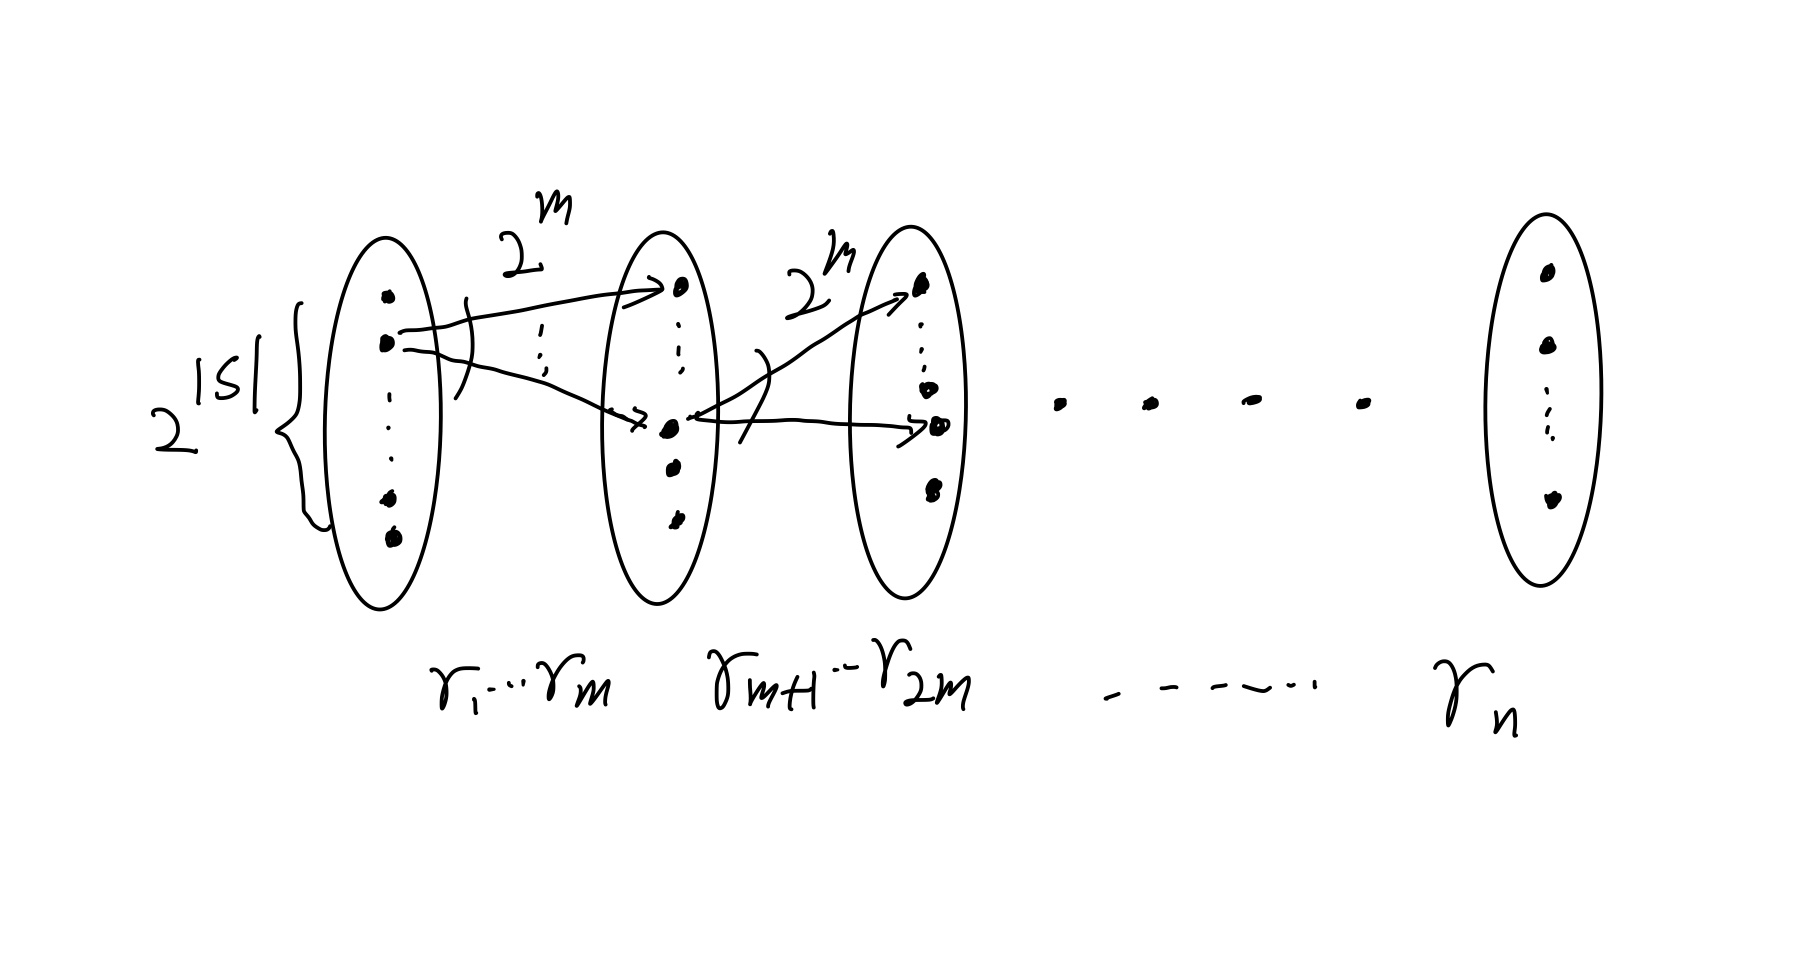
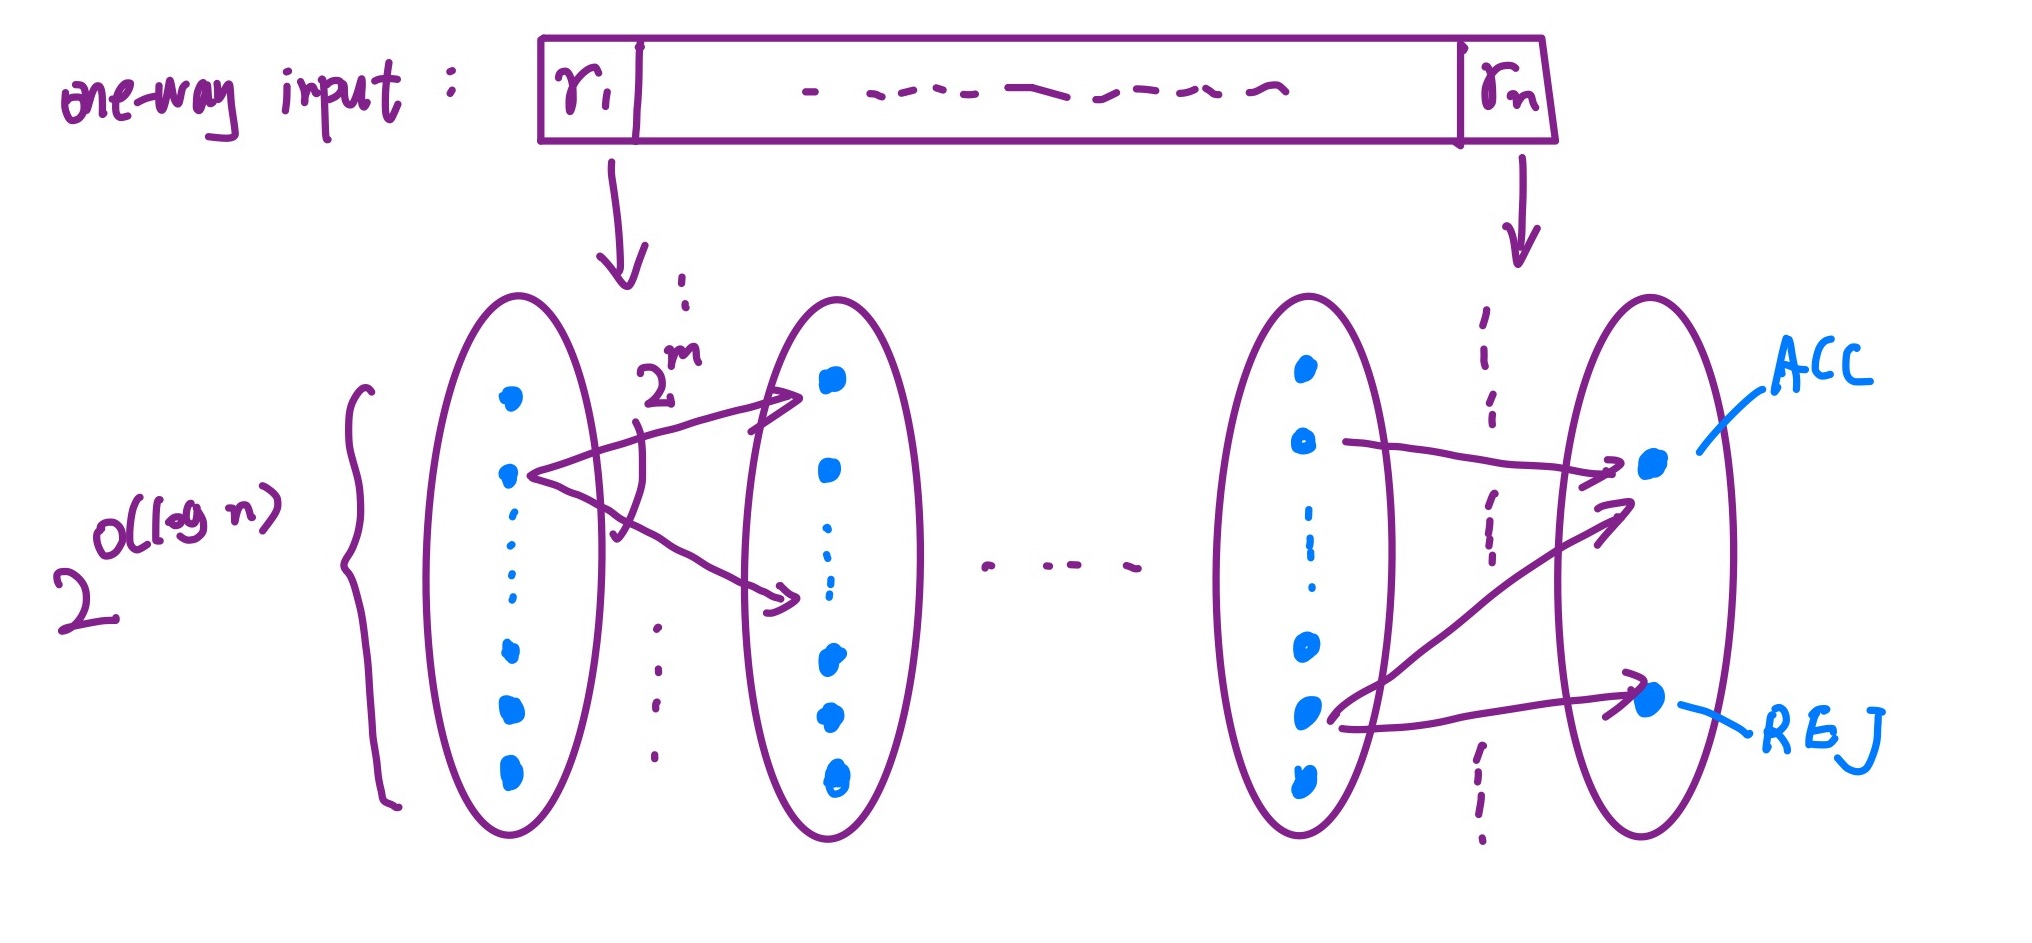
ROBP

diff --git a/_site/blog/index.html b/_site/blog/index.html
@@ -72,30 +72,82 @@
   <div class="post">
     <h1 class="post-title">
       <a href="/derandbpl/">
-        BPL, Derandomize BPL
+        BPL and Fooling BPL
       </a>
     </h1>
 
     <span class="post-date">03 Nov 2019</span>
     
-      <p>Starting from this post I will discuss about the $BPL\ vs.\ L$ problem and write notes about some known, important result.</p>
+      <p>Starting from this post I will discuss about the $BPL\ vs.\ L$ problem and write notes about some known, important result. This post is an introduction to this problem.</p>
 
 <ul>
-  <li><a href="#bpl">BPL</a></li>
+  <li><a href="#bpl">Log-space computation and BPL</a></li>
+  <li><a href="#robp">ROBP</a></li>
+  <li><a href="#fool">Fooling BPL</a></li>
 </ul>
 
 <h2 id="-1-log-space-computation-and-the-class-bpl"><a name="bpl"></a> 1. Log-space Computation and the class BPL</h2>
 
-<p>We will be interested in space-bounded probabilistic computation and specifically, on Turing machines that have logarithmic working space. We start by describing such machines.</p>
+<p>We are interested in space-bounded probabilistic computation, specifically, on Turing machines that have logarithmic working space. We start by describing such machines.</p>
 <h3 id="log-space-probabilistic-turing-machine">Log-space Probabilistic Turing Machine</h3>
 
-<p>A log-space probabilistic turing machine consists of the following part:  a two-way read-only input tape, assuming that the input is of size $n$; a normal read-write working tape of size $O(\log n)$, a finite state control that has a finite number of states, a output tape that is write-only. In addition, we need to model the condition that the machine has access to infinite randomness. That is, every time the machine doesn’t know what to do, it flips a coin and decides its next step. We model this by giving it access to a infinite one-way random tape, it reads the next random bit when it is needed. It must write the random bit down (in the work tape) if it wants to retrieve it later.</p>
+<p>A log-space probabilistic turing machine(PTM) consists of the following parts:  a two-way read-only input tape, assuming that the input is of size $n$; a normal read-write working tape of size $O(\log n)$, a finite state control that has a finite number of states, a output tape that is write-only. In addition, we need to model the condition that the machine has access to infinite randomness. That is, every time the machine doesn’t know what to do, it flips a coin and decides its next step. We model this by giving it access to an infinite one-way random tape, it reads the next random bit when it is needed. It must write the random bit down (in the work tape) if it wants to retrieve it later.</p>
 
 <p><img src="/assets/L-PTM.jpg" alt="log-space PTM" /></p>
 
-<p>In the execution of this TM, a <em>configuration</em> consists of the position of read head on the input tape plus the contents on it, the position of read-write head on the working tape plus the contents, the specific state on the finite state control. We should see that the total number of configurations is $\log n \cdot 2^{O(\log n)}$(# of possible work tape configuration) $\cdot \lvert \Delta \rvert$(# of states which is finite) $\cdot n$ (# of possible input tape configuration) $=2^{O(\log n)}$.</p>
+<p>In the execution of this TM, a <em>configuration</em> consists of the position of read head on the input tape plus the contents on it, the position of read-write head on the working tape plus the contents, the specific state on the finite state control. We should see that the total number of configurations is $O(\log n) \cdot 2^{O(\log n)}$(# of possible work tape configuration) $\cdot \lvert \Delta \rvert$(# of states which is finite) $\cdot n$ (# of possible input tape configuration) $=2^{O(\log n)}$.</p>
+
+<h3 id="bpl">BPL</h3>
+
+<p>$BPL$ can be written as $BP_HL$ or $BP_HSPACE(\log n)$. It refers to <em>Bounded-error Probabilistic Log-space</em> that halts absolutely (hence the sub “H”). Formally, we say a language $L$ is in $BPL$ if there is a log-space PTM recognizes it and satisfies the following:</p>
+
+<ul>
+  <li>it always halts.</li>
+  <li>if $x\in L$, it accepts with probability at least 2/3.</li>
+  <li>if $x\not\in L$, it rejects with probability at least 2/3.</li>
+  <li>the probability is taken over the coin flips of the TM.</li>
+</ul>
+
+<p>We emphasize that in the definition of $BPL$ the PTM halts absolutely, which is the case we’re interested in. For discussion on other PTMs(e.g. PTM that halts almost surely) , readers should refer to the survey [1]. We now state some observations:</p>
+
+<ul>
+  <li>The PTM runs in time at most $2^{O(\log n)}$, otherwise the PTM falls in loop and never halts.</li>
+  <li>Since it runs in time at most $2^{O(\log n)}$, it uses at most $2^{O(\log n)}$ random bits.</li>
+</ul>
+
+<p>In fact, restricting a PTM to use at most $2^{O(\log n)}$ randomness is equivalent to say it halts absolutely. Consider the following: the PTM uses space $O(\log n)$ to maintain a counter, every time the PTM flips a coin, the counter is reset to 0, if the counter reaches $2^{O(\log n)}$, then it halts and reject. It can be seen that this halting PTM recognizes the same language.</p>
+
+<h2 id="-2-read-once-branching-program"><a name="robp"></a> 2. Read-once Branching Program</h2>
+
+<p>In this section we introduce a (non-uniform) computational model that simulates space-bounded computation. A branching program (in our interest) is a layed acyclic graph, each layer has a total number of $2^{O(\log n)}$ nodes. You can think of each of these nodes as a configuration in the execution of the above BPL machine on a given input, so each layer has the same nodes and, since it’s halting, the same node isn’t entered twice. For each input, there is a starting node in the first layer that represents the starting configuration. In the last layer there are only 2 nodes, one represents the “accept” state and the other represents the “reject” state. Between the $i$th and $i+1$th layer there are transition edges mapping from nodes in the $i$th layer to the nodes in the $i+1$th layer. Each of these edges is labeled a string <script type="math/tex">r_i \in\{0,1\}^m</script>. You should think of this string as the $m$ coin flips tossed by the machine to decide which configuration to enter in the next step (tossing $m$ coins just generalizes the case of tossing one coin). A computation on a branching program with input $r_n$ is just a path from a node in the first layer to the Accepting/Rejecting node in the last layer, between it reads $r_i$ and chooses the edge accordingly. We say a branching program is ROBP (Read Once Branching Program) if it reads its input in a one-way fashion.</p>
+
+<p>For a computation on the BPL machine with input $x$, you can think of a ROBP simulates the computation by:</p>
+
+<ol>
+  <li>picking a node in the first layer as starting node according to the input $x$;</li>
+  <li>read the sequence of random bits on the original random tape as input and execute accordingly.</li>
+  <li>note that it reads the input in a streaming (one-way) fashion.</li>
+</ol>
+
+<p>The picture below represents a branching program using $r_n$ randomness and has $2^{O(\log n)}$ nodes in each layer.</p>
+
+<p>For convenience, we denote that maximum number in a layer of the (RO)BP the <em>width</em> of it. We denote the length of the (RO)BP as the number of layers in it.</p>
 
 <p><img src="/assets/ROBP.jpg" alt="ROBP" /></p>
+
+<h2 id="-3-fooling-bpl"><a name="fool"></a> 3. Fooling BPL</h2>
+
+<p>From the previous sections, we can see that to fool every language in BPL, it suffices to fool all ROBPs that have width at most $2^{O(\log n)}$. We formally define what we mean by fooling a ROBP.</p>
+
+<p><strong>Definition 3.1</strong> For a ROBP $B: {0,1}^{n} \rightarrow {0,1}$, we say a pseudorandom generator <script type="math/tex">G: \{0,1\}^{r} \rightarrow \{0,1\}^{n}</script>  where $r&lt;n = 2^{O(\log n)}$ $\epsilon$-fools $B$ if</p>
+
+<script type="math/tex; mode=display">% <![CDATA[
+\lvert \Pr \left[ B(G(U_{r}))\right] - \Pr\left[B(U_n) \right]\rvert < \epsilon %]]></script>
+
+<p><strong>References</strong></p>
+
+<p>[1] Michael Saks, “Randomization and Derandomization in Space-Bounded
+Computation” http://citeseerx.ist.psu.edu/viewdoc/download?doi=10.1.1.17.1185&amp;rep=rep1&amp;type=pdf</p>
 
 
     

diff --git a/_posts/2019-11-03-derandlogspace.md b/_posts/2019-11-03-derandlogspace.md
@@ -1,7 +1,7 @@
 ---
 layout: default
 permalink: /derandbpl/
-title: BPL, Derandomize BPL
+title: BPL and Fooling BPL
 tags: Study
 ---
 
@@ -9,6 +9,7 @@ Starting from this post I will discuss about the $BPL\ vs.\ L$ problem and write
 
 * [Log-space computation and BPL](#bpl)
 * [ROBP](#robp)
+* [Fooling BPL](#fool)
   
 
 ## <a name="bpl"></a> 1. Log-space Computation and the class BPL  
@@ -38,13 +39,29 @@ We emphasize that in the definition of $BPL$ the PTM halts absolutely, which is 
 
 In fact, restricting a PTM to use at most $2^{O(\log n)}$ randomness is equivalent to say it halts absolutely. Consider the following: the PTM uses space $O(\log n)$ to maintain a counter, every time the PTM flips a coin, the counter is reset to 0, if the counter reaches $2^{O(\log n)}$, then it halts and reject. It can be seen that this halting PTM recognizes the same language.  
 
-## <a name="robp"></a>2. Read-once Branching Program
+## <a name="robp"></a> 2. Read-once Branching Program
 
-In this section we introduce a (non-uniform) computational model that simulates space-bounded computation. A branching program (in our interest) is a layed acyclic graph, each layer has a total number of $2^{O(\log n)}$ nodes. You can think of each of these nodes as a configuration in the execution of the above BPL machine on a given input, so each layer has the same nodes and, since it's halting, the same node isn't entered twice. For each input, there is a starting node in the first layer that represents the starting configuration. In the last layer there are only 2 nodes, one represents the "accept" state and the other represents the "reject" state. Between the $i$th and $i+1$th layer there are transition edges mapping from nodes in the $i$th layer to the nodes in the $i+1$th layer. Each of these edges is labeled a string $$r_i \in\{0,1\}^m$$. You should think of this string as the $m$ coin flips tossed by the machine to decide which configuration to enter in the next step (tossing $m$ coins just generalized the case of tossing one coin). A computation on a branching program is just a path from a node in the first layer to the ACC/REJ in the last layer.
+In this section we introduce a (non-uniform) computational model that simulates space-bounded computation. A branching program (in our interest) is a layed acyclic graph, each layer has a total number of $2^{O(\log n)}$ nodes. You can think of each of these nodes as a configuration in the execution of the above BPL machine on a given input, so each layer has the same nodes and, since it's halting, the same node isn't entered twice. For each input, there is a starting node in the first layer that represents the starting configuration. In the last layer there are only 2 nodes, one represents the "accept" state and the other represents the "reject" state. Between the $i$th and $i+1$th layer there are transition edges mapping from nodes in the $i$th layer to the nodes in the $i+1$th layer. Each of these edges is labeled a string $$r_i \in\{0,1\}^m$$. You should think of this string as the $m$ coin flips tossed by the machine to decide which configuration to enter in the next step (tossing $m$ coins just generalizes the case of tossing one coin). A computation on a branching program with input $r_n$ is just a path from a node in the first layer to the Accepting/Rejecting node in the last layer, between it reads $r_i$ and chooses the edge accordingly. We say a branching program is ROBP (Read Once Branching Program) if it reads its input in a one-way fashion.
+
+For a computation on the BPL machine with input $x$, you can think of a ROBP simulates the computation by:  
+
+1. picking a node in the first layer as starting node according to the input $x$; 
+2. read the sequence of random bits on the original random tape as input and execute accordingly.  
+3. note that it reads the input in a streaming (one-way) fashion.
+
+The picture below represents a branching program using $r_n$ randomness and has $2^{O(\log n)}$ nodes in each layer.  
+
+For convenience, we denote that maximum number in a layer of the (RO)BP the *width* of it. We denote the length of the (RO)BP as the number of layers in it.
 
 ![ROBP](/assets/ROBP.jpg)
 
+## <a name="fool"></a> 3. Fooling BPL  
 
+From the previous sections, we can see that to fool every language in BPL, it suffices to fool all ROBPs that have width at most $2^{O(\log n)}$. We formally define what we mean by fooling a ROBP.    
+
+**Definition 3.1** For a ROBP $B: \{0,1\}^{n} \rightarrow \{0,1\}$, we say a pseudorandom generator $$G: \{0,1\}^{r} \rightarrow \{0,1\}^{n}$$  where $r<n = 2^{O(\log n)}$ $\epsilon$-fools $B$ if  
+
+$$\lvert \Pr \left[ B(G(U_{r}))\right] - \Pr\left[B(U_n) \right]\rvert < \epsilon$$
 
 **References**  
 
